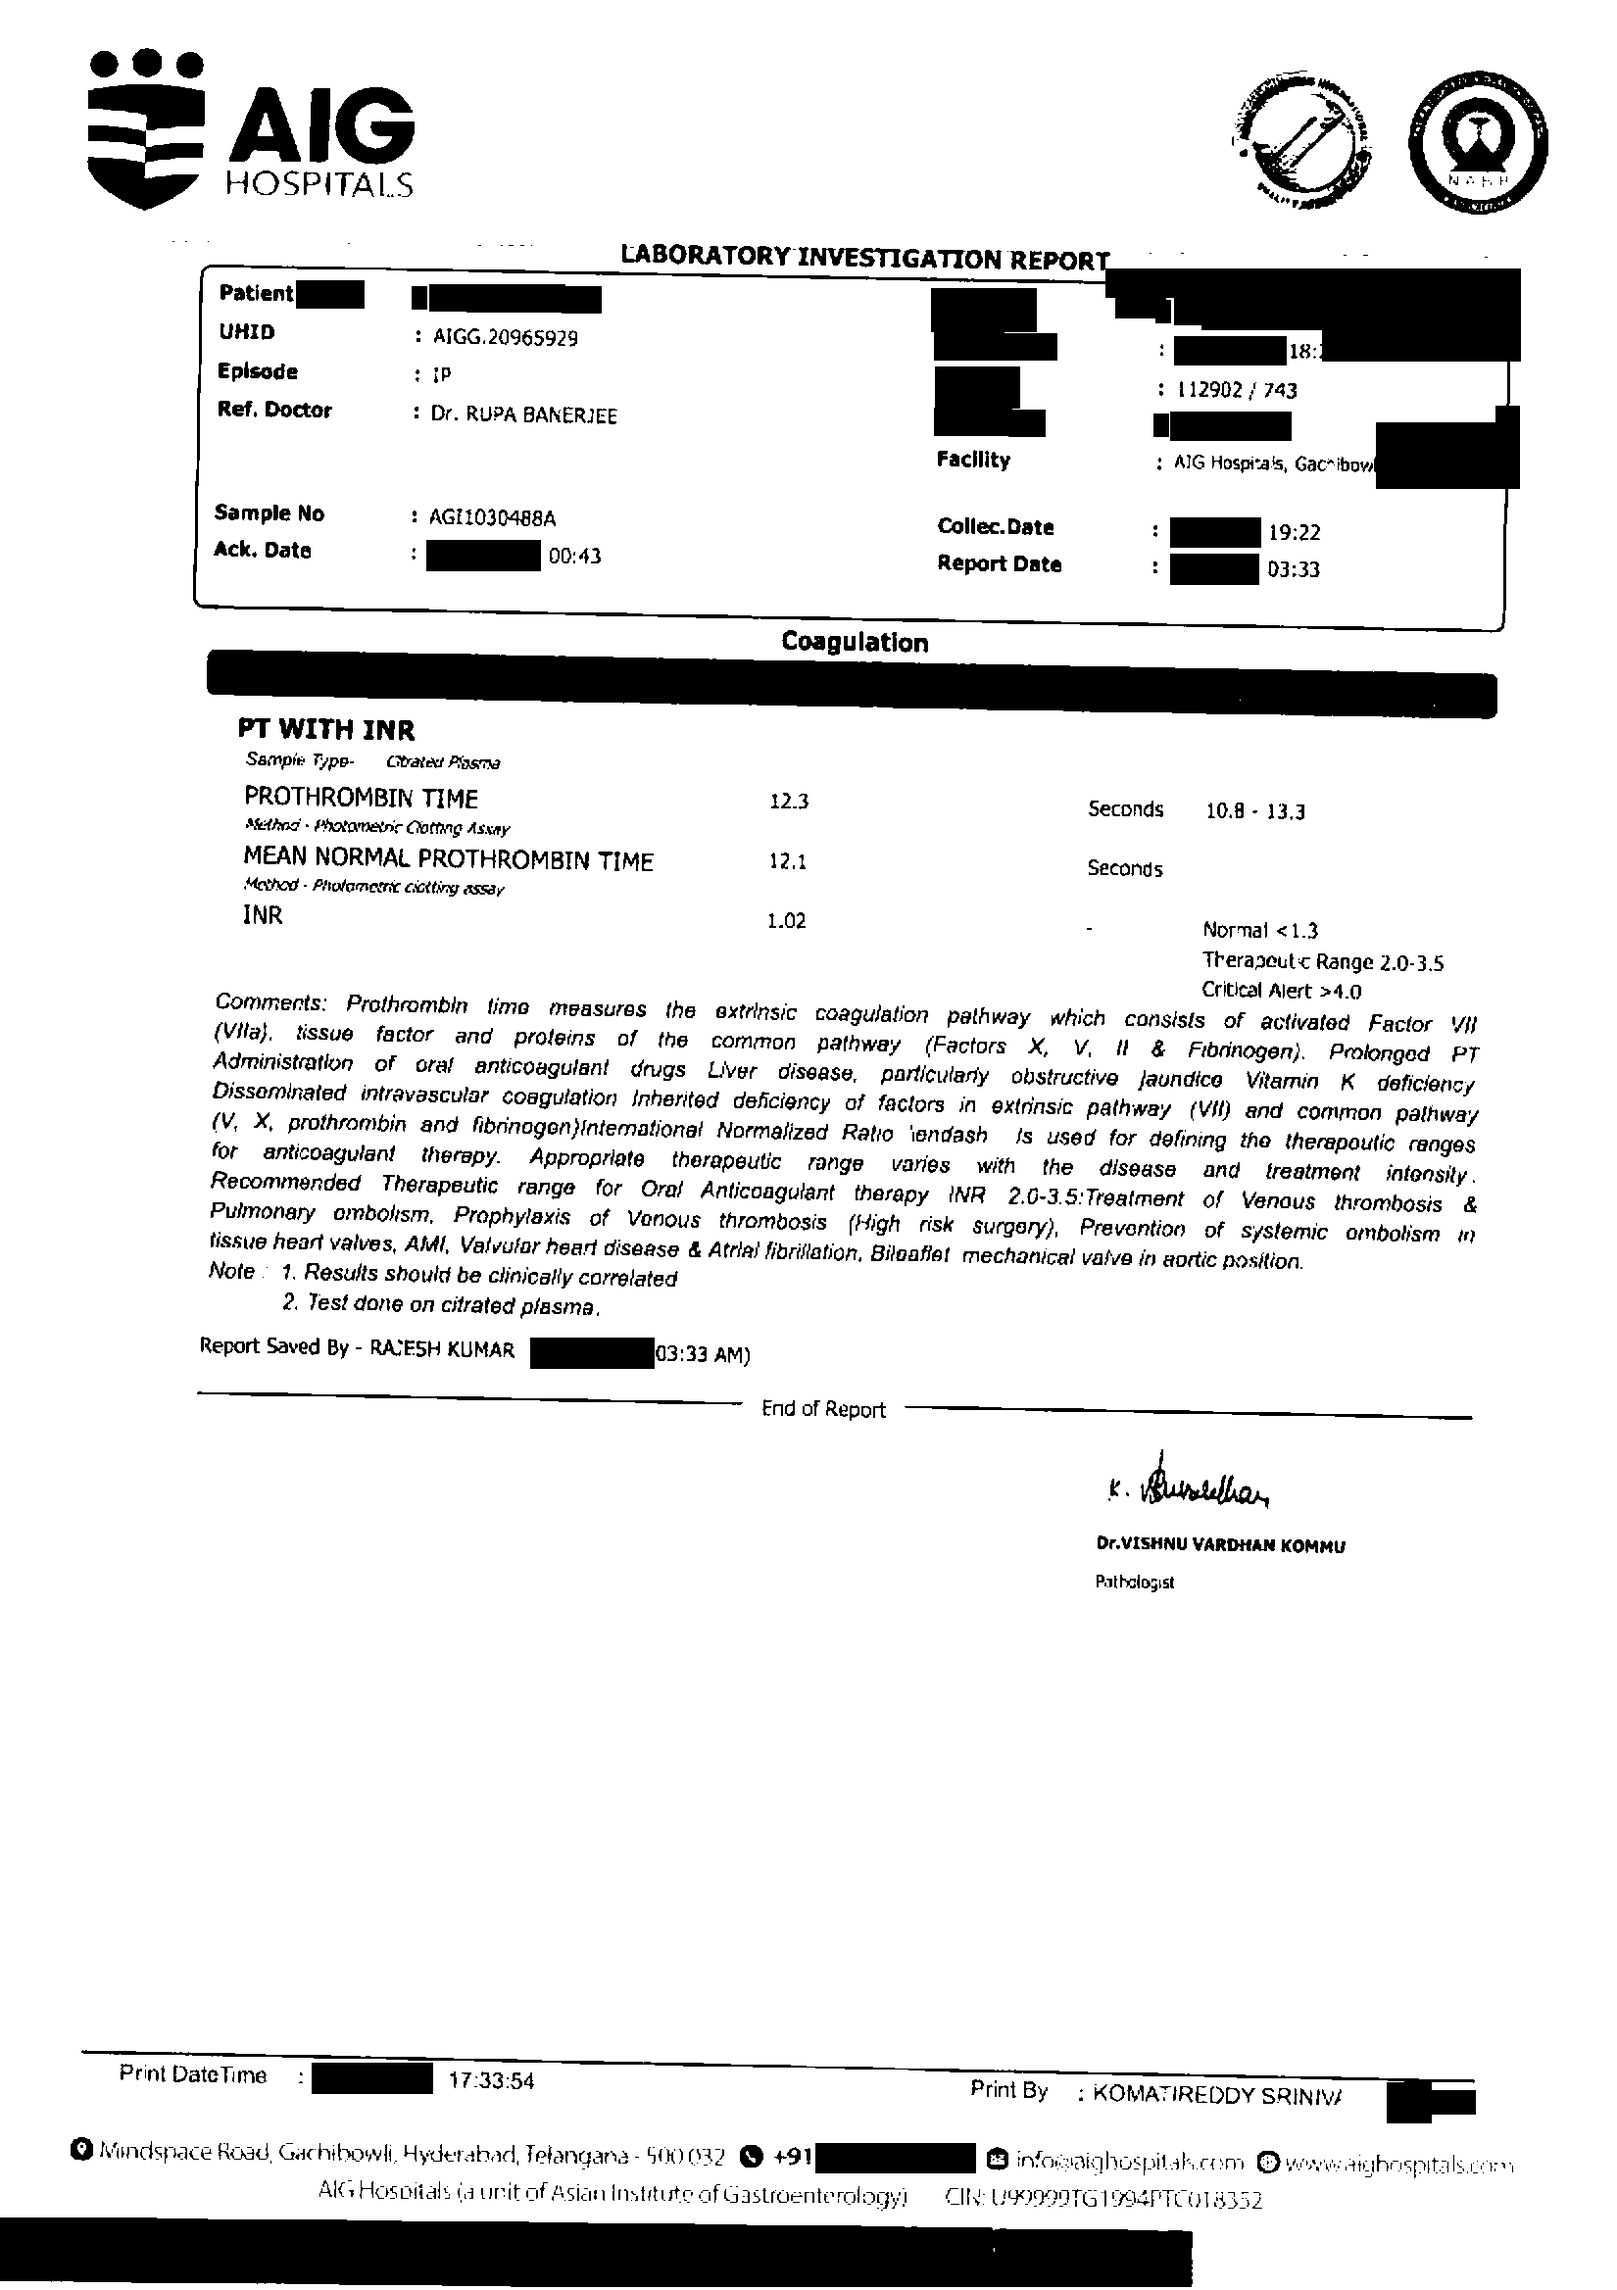
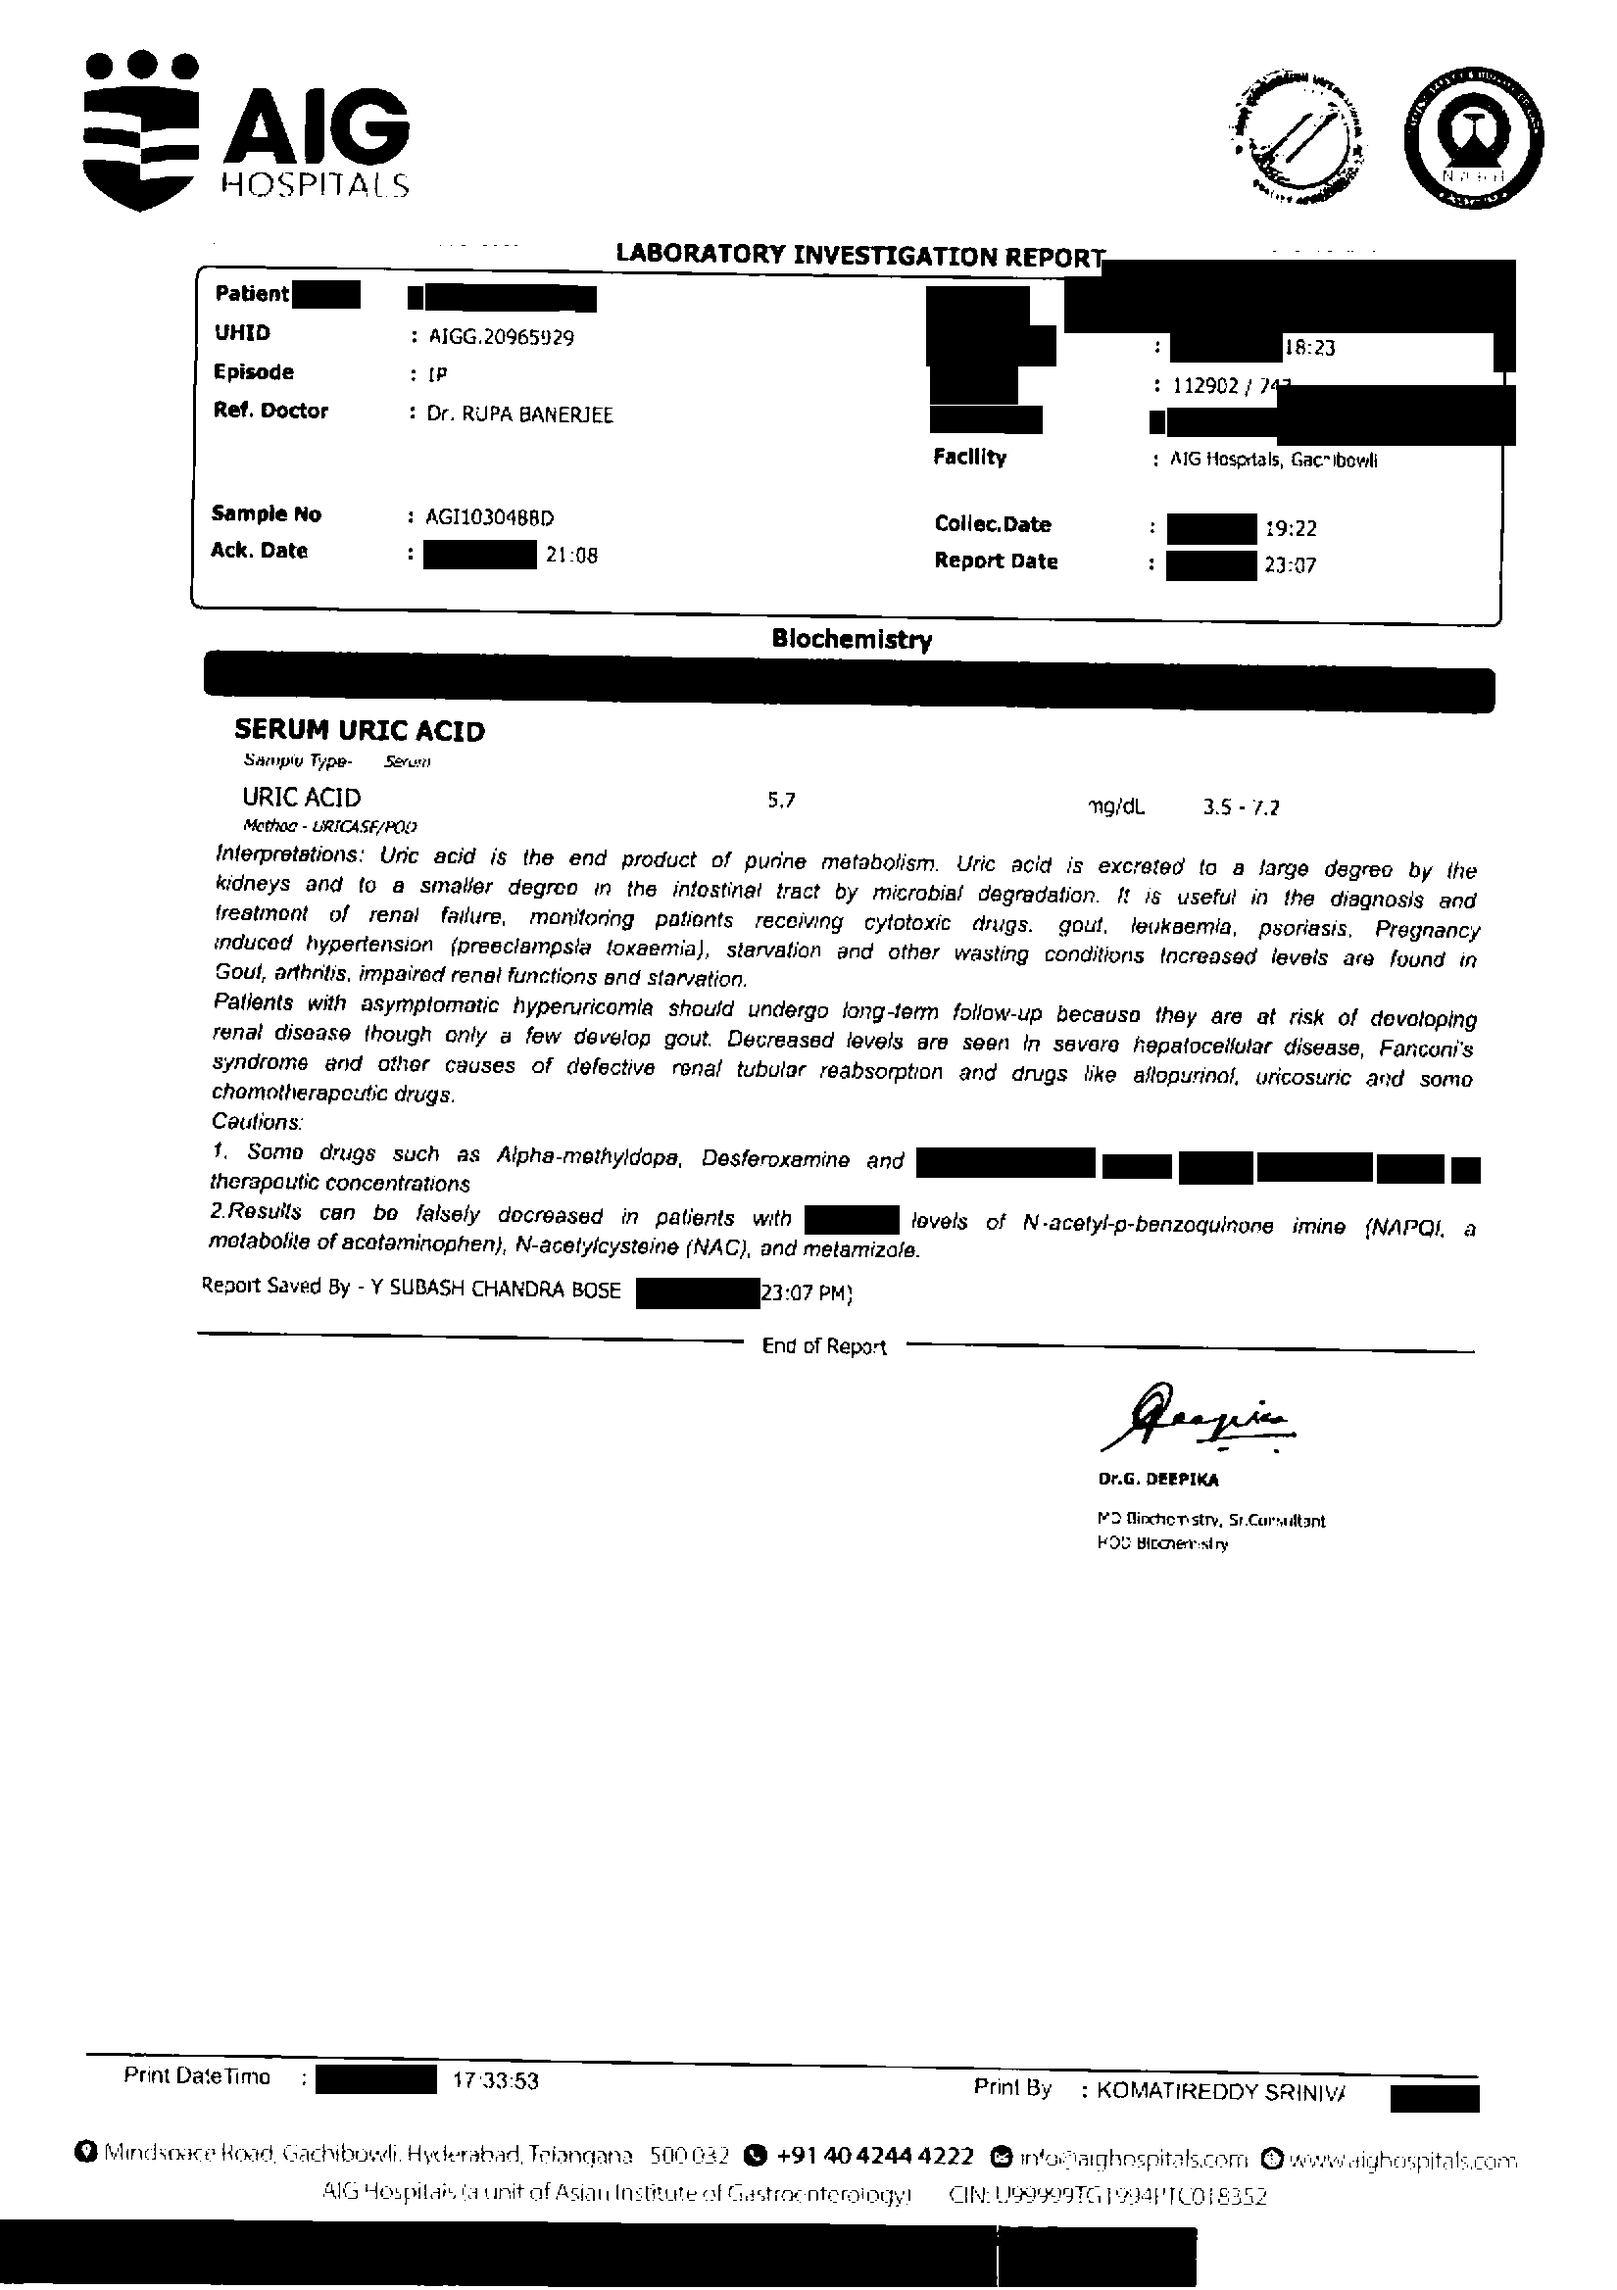
improved the extracted json format

diff --git a/ocr.py b/ocr.py
@@ -6,7 +6,7 @@ import numpy as np
 import re, json
 
 DATA_ROOT=Path("C:/medical_data")
-image_path= DATA_ROOT/ "coagulation_001.png"
+image_path= DATA_ROOT/ "uric_acid_001.png"
 
 image=Image.open(image_path)
 #image.show()
@@ -47,6 +47,8 @@ def normalize_test_name(name):
 
 # print("extracted_data:",extracted_data)
 # print(json.dumps(extracted_data,indent=2))
+
+
 def extract_candidate_rows(ocr_text):
     rows = []
     for line in ocr_text.split("\n"):
@@ -149,6 +151,39 @@ ontology = build_test_ontology(annotation_files)
 
 extracted_data = normalize_extracted_rows(parsed_rows, ontology)
 
+def classify_abnormality(value, reference_range):
+    """
+    Classify test value as low / normal / high
+    """
+    if not reference_range:
+        return "unknown"
+
+    try:
+        low, high = re.split(r"[-–]", reference_range)
+        low, high = float(low.strip()), float(high.strip())
+    except Exception:
+        return "unknown"
+
+    if value < low:
+        return "low"
+    elif value > high:
+        return "high"
+    else:
+        return "normal"
+    
+for test in extracted_data:
+    test["status"] = classify_abnormality(
+        test["value"],
+        test["reference_range"]
+    )
+
+extracted_data = [
+    t for t in extracted_data
+    if t["confidence"] >= 0.75
+]
+
+
+
 def calculate_accuracy(extracted_data, ground_truth_json):
     """
     Compare with fuzzy matching since OCR won't be perfect
@@ -201,28 +236,49 @@ def calculate_accuracy(extracted_data, ground_truth_json):
     
     return correct_names/total, correct_values/total
 
-ground_truth_json_path=DATA_ROOT/ "coagulation_001_annotations.json"
+ground_truth_json_path=DATA_ROOT/ "uric_acid_001_annotations.json"
 with open(ground_truth_json_path, 'r') as f:
     ground_truth_json = json.load(f)
 accuracy=calculate_accuracy(extracted_data,ground_truth_json)
 print("accuracy:",accuracy)
 
-def export_report_json(report_id, extracted_data, output_dir="outputs"):
-    output = {
+def build_final_report(report_id, extracted_data):
+    abnormal_tests = [
+        t for t in extracted_data
+        if t["status"] in ("low", "high")
+    ]
+
+    return {
         "report_id": report_id,
+        "total_tests": len(extracted_data),
+        "abnormal_count": len(abnormal_tests),
+        "abnormal_tests": abnormal_tests,
         "tests": extracted_data
     }
+
+
+def export_report_json(report_id, extracted_data, output_dir="outputs"):
+
     
     Path(output_dir).mkdir(exist_ok=True)
     out_path = Path(output_dir) / f"{report_id}_extracted.json"
-    
-    with open(out_path, "w") as f:
-        json.dump(output, f, indent=2)
-    
-    print(f"Saved structured report to {out_path}")
 
-export_report_json(
-    report_id="coagulation_001",
+    final_report = build_final_report(
+    report_id=report_id,
     extracted_data=extracted_data
 )
+
+    Path("outputs").mkdir(exist_ok=True)
+    with open(out_path, "w") as f:
+        json.dump(final_report, f, indent=2)
+
+    print(f"Saved structured report to {out_path}")
+
+
+export_report_json(
+    report_id="uric_acid_001",
+    extracted_data=extracted_data
+)
+
+
 
